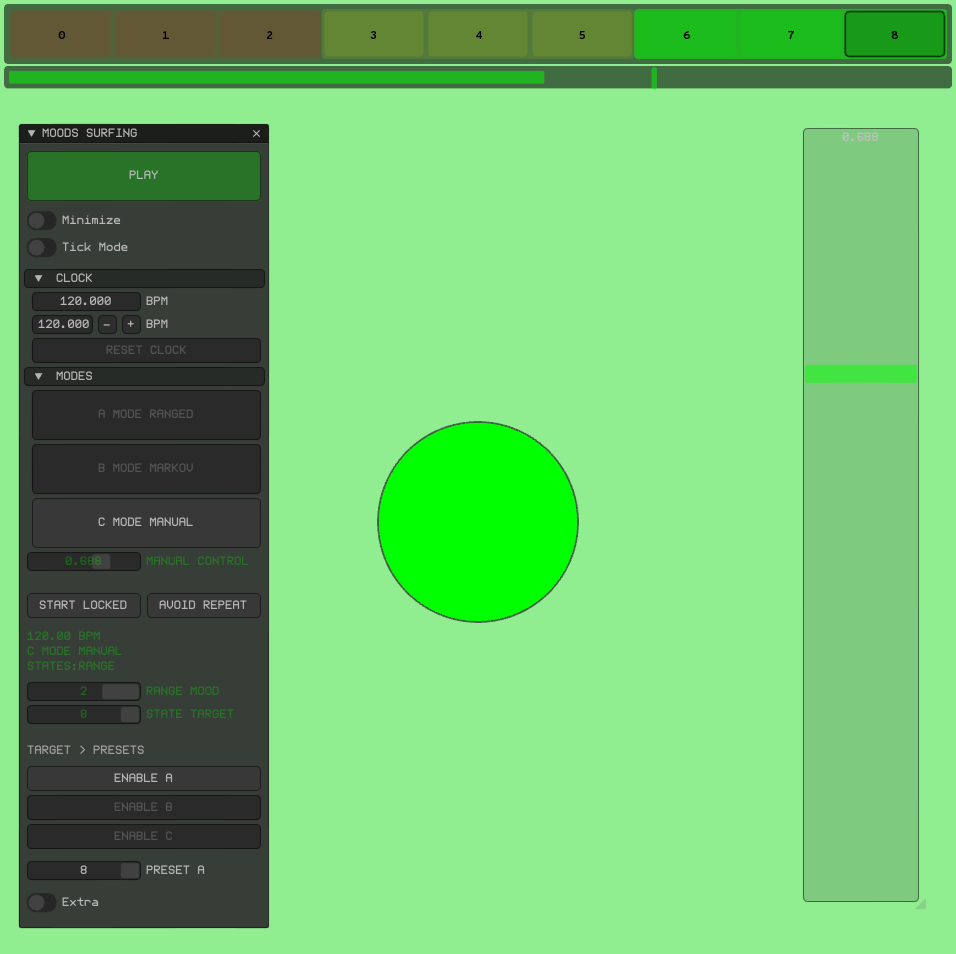
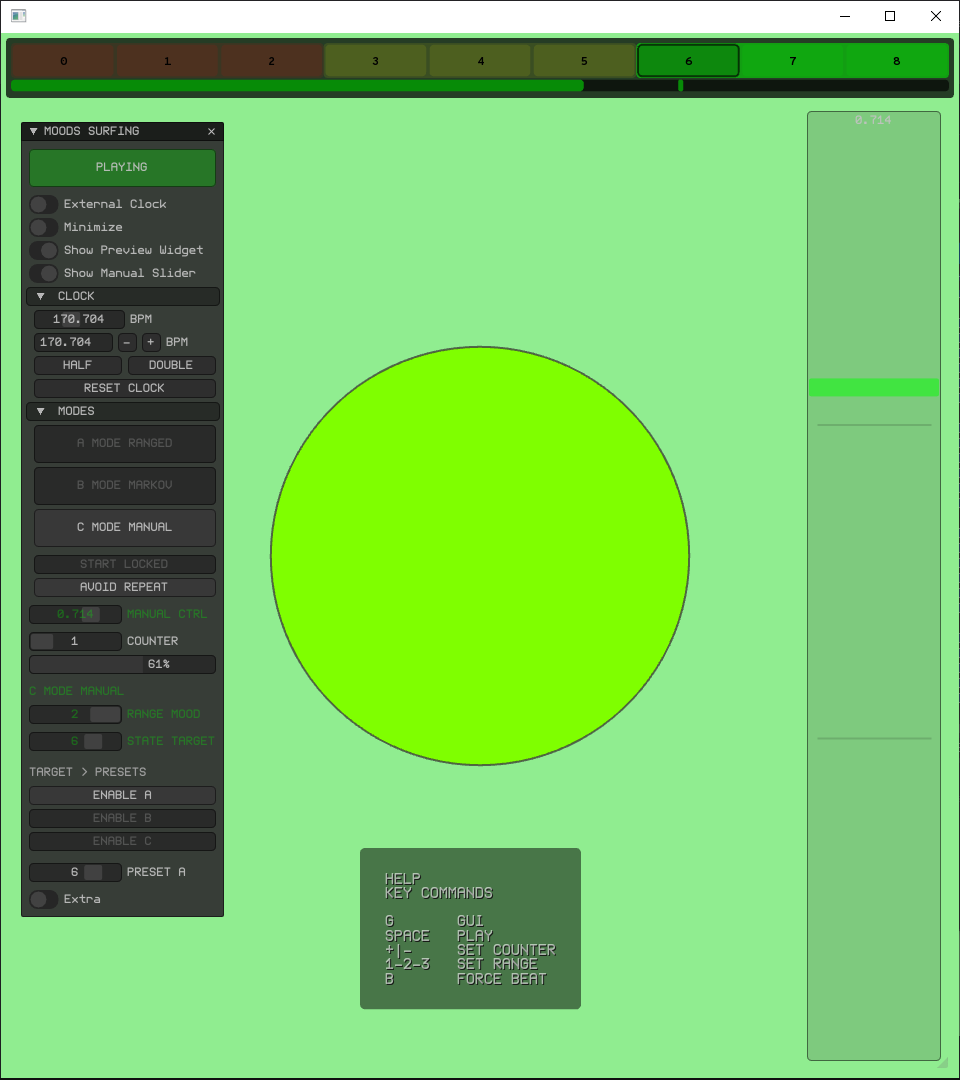
+

diff --git a/src/ofxSurfingMoods.cpp b/src/ofxSurfingMoods.cpp
@@ -539,7 +539,10 @@ void ofxSurfingMoods::removeKeysListeners()
 //--------------------------------------------------------------
 void ofxSurfingMoods::windowResized(int w, int h)
 {
-	if (!bUseCustomPreviewPosition) doResetPreviewWidget();
+	ofLogNotice(__FUNCTION__) << w << ", " << h;
+
+	// workaround
+	bResetLayout = true;
 }
 
 //--------------------------------------------------------------
@@ -2280,7 +2283,10 @@ void ofxSurfingMoods::draw_ImGui_User()
 
 			ofxImGuiSurfing::AddToggleRoundedButton(guiManager.bMinimize);
 
-			if (!guiManager.bMinimize) ofxImGuiSurfing::AddToggleRoundedButton(bGui_PreviewWidget);
+			if (!guiManager.bMinimize) {
+				ofxImGuiSurfing::AddToggleRoundedButton(bGui_PreviewWidget);
+				if (MODE_Manual) ofxImGuiSurfing::AddToggleRoundedButton(bGui_ManualSlider);
+			}
 
 			if (guiManager.bMinimize)
 			{
@@ -2299,7 +2305,7 @@ void ofxSurfingMoods::draw_ImGui_User()
 						bpmSpeed = bpmSpeed * 2.0f;
 					}
 					ImGui::SameLine();
-					if (ImGui::Button("RESET", ImVec2(_w33, _h))) {
+					if (ImGui::Button("RESET", ImVec2(_w33, _h))) {//to change the name..
 						bResetClockSettings = true;
 					}
 					//guiManager.Add(bResetClockSettings, OFX_IM_BUTTON_SMALL, false, 3);
@@ -2460,13 +2466,14 @@ void ofxSurfingMoods::draw_ImGui_User()
 			if (!guiManager.bMinimize) {
 
 				ImGui::Spacing();
-				ofxImGuiSurfing::AddToggleRoundedButton(bKeys);
-				ofxImGuiSurfing::AddToggleRoundedButton(guiManager.bHelp);
 				ofxImGuiSurfing::AddToggleRoundedButton(guiManager.bExtra);
 				if (guiManager.bExtra)
 				{
 					ImGui::Indent();
 					{
+						ofxImGuiSurfing::AddToggleRoundedButton(bKeys);
+						ofxImGuiSurfing::AddToggleRoundedButton(guiManager.bHelp);
+
 						ofxImGuiSurfing::AddToggleRoundedButton(bGui_Advanced);
 						if (MODE_Manual) ofxImGuiSurfing::AddToggleRoundedButton(bModeAutomatic);
 
@@ -2542,6 +2549,15 @@ void ofxSurfingMoods::draw_ImGui()
 	{
 		draw_ImGui_User();
 		draw_ImGui_Advanced();
+
+		// workaround
+		if (bResetLayout) {
+			bResetLayout = true;
+
+			doResetPreviewWidget();
+			doResetManualSlider();
+		}
+
 		draw_ImGui_ManualSlider();
 	}
 	guiManager.end();

diff --git a/src/ofxSurfingMoods.h b/src/ofxSurfingMoods.h
@@ -308,6 +308,7 @@ public:
 	// Reset preview layout
 	void doResetPreviewWidget();
 	void doResetManualSlider();
+	bool bResetLayout = false;
 
 	// preview boxes bar
 	//--------------------------------------------------------------
